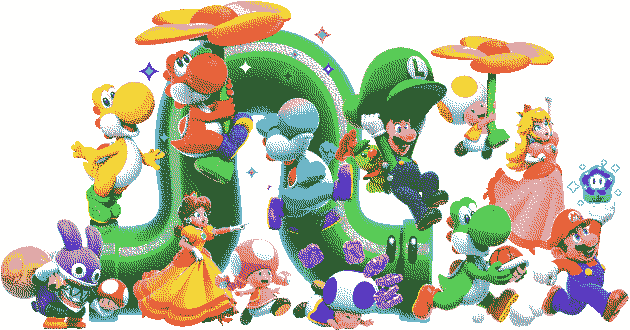
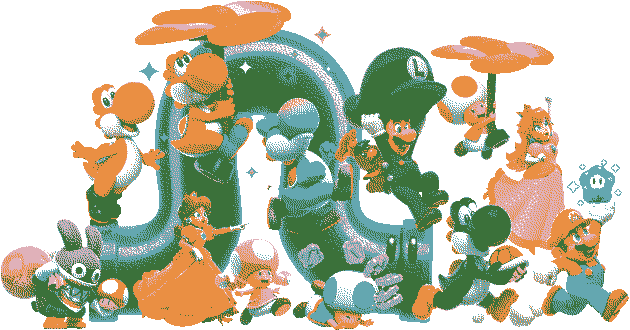
CREATE custom kmeans class  manually implemented

diff --git a/20874_Algorithms_for_Optimization_and_Inference/HW01/problem_1/kmeans.py b/20874_Algorithms_for_Optimization_and_Inference/HW01/problem_1/kmeans.py
@@ -1,0 +1,90 @@
+import numpy as np
+
+class KMeans:
+    def __init__(self, n_clusters=None, init='random', n_init=10, tol = 1e-4):
+
+        if n_clusters is None:
+            raise ValueError('Number of clusters must be specified.')
+        
+        self.n_clusters = n_clusters
+        self.n_init = 1 if init == 'frequency' else n_init
+        self.init = init
+        self.tol = tol
+
+    def fit(self, X, max_iters=300):
+        """
+        Fit the model to the data X.
+        X is an array of shape (n_samples, n_features).
+        Args:
+            X: np.array
+                Data to fit the model on.
+            max_iters: int
+                Maximum number of iterations for one run of Lloyd's algorithm.
+
+        """
+        best_obj = np.inf
+        for _ in range(self.n_init):
+            
+            centroids, new_obj = self.lloyd(X, max_iters=max_iters)
+            print(f'Iteration: {_+1:03} | Objective: {new_obj:,.2f}')
+            if new_obj < best_obj:
+                best_obj = new_obj
+                best_centroids = centroids
+                print('New best objective:', best_obj)
+        
+        self.centroids = best_centroids
+        self.obj = best_obj
+        self.labels = self.predict(X)
+        
+        return f'Fitting done.\nCentroids stored in self.\nObjective value: {self.obj}.'
+            
+    def lloyd(self, X, max_iters):
+
+        """"
+        One complete run of Lloyd's algorithm:
+            1. Init centroids
+            2. Assign each sample to the closest centroid
+            3. Update the centroids 
+        Returns the centroids and the objective value.
+        
+        """
+        if self.init == 'random':
+            centroids = X[np.random.choice(X.shape[0], self.n_clusters, replace=False)]
+        
+        elif self.init == 'frequency':
+            points, counts = np.unique(X, axis=0, return_counts=True)
+            sorted_indices = np.argsort(counts)[::-1]
+            centroids = points[sorted_indices[:self.n_clusters]]
+        
+        elif self.init == 'frequency + noise':
+            points, counts = np.unique(X, axis=0, return_counts=True)
+            sorted_indices = np.argsort(counts)[::-1]
+            centroids = points[sorted_indices[:self.n_clusters]]
+            centroids += np.random.normal(0, 1, centroids.shape).astype(np.uint8)
+        
+        iter = 0
+        while iter < max_iters:
+
+            labels = np.argmin(np.linalg.norm(X[:, None] - centroids, axis=2), axis=1)
+            
+            new_centroids = np.array([X[labels == i].mean(axis=0) if np.any(labels == i) else centroids[i] for i in range(self.n_clusters)])
+            
+            if np.linalg.norm(new_centroids - centroids) < self.tol:
+                centroids = new_centroids
+                print(f'Converged in {iter} iterations.')
+                break
+            centroids = new_centroids
+            iter += 1
+
+        return centroids, np.min(np.linalg.norm(X[:, None] - centroids, axis=2), axis=1).sum()
+        
+    
+    def predict(self, X):
+        """
+        Return the closest centroid for each sample in X.
+        X is an array of shape (n_samples, n_features).
+
+        """
+        if getattr(self, 'centroids', None) is None:
+            raise ValueError('Model not fitted.')
+        return np.argmin(np.linalg.norm(X[:, None] - self.centroids, axis=2), axis=1)

diff --git a/20874_Algorithms_for_Optimization_and_Inference/HW01/problem_1/recolor.py b/20874_Algorithms_for_Optimization_and_Inference/HW01/problem_1/recolor.py
@@ -2,18 +2,23 @@ import sys
 import numpy as np
 from PIL import Image
 
-from sklearn.cluster import KMeans
-from sklearn.preprocessing import StandardScaler
+from kmeans import KMeans
+# from sklearn.preprocessing import StandardScaler
+
+
 
 # -------------------------------------- #
 # ----- Get params from cmd ------------ #
 # -------------------------------------- #
+
 if len(sys.argv) != 4:
     print('Provide required arguments:\n\tpython recolor.py <input_img> <output_img> <k>')
     sys.exit(1)
+
 input_img = sys.argv[1]     # path to input file
 output_img = sys.argv[2]    # path to output file
 k = int(sys.argv[3])        # number of colors
+
 
 # -------------------------------------- #
 # ----- Load and prepare image --------- #
@@ -23,10 +28,8 @@ img = Image.open(input_img)
 img = np.array(img)
 h, w, c = img.shape
 
-# Flatten
 X = img.reshape(h*w, c)
 
-# Get unique colors to upper bound k
 n_colors = np.unique(X, axis=0).shape[0]
 
 print(f'Unique colors found in img: {n_colors}')
@@ -35,30 +38,29 @@ if k > n_colors:
     k = n_colors
 
 # Center and scale the data
-print(f'Standardizing data...')
-scaler = StandardScaler()
-#X_scaled = scaler.fit_transform(X)
-X_scaled = X
+# print(f'Standardizing data...')
+# scaler = StandardScaler()
+# X_scaled = scaler.fit_transform(X)
+# X_scaled = X
 
 # -------------------------------------- #
 # ----- Apply K-Means clustering ------- #
 # -------------------------------------- #
 
 print(f'Clustering data...')
-kmeans = KMeans(n_clusters=k, init='random', n_init=100)   # Adjust 'n_clusters' as needed
-kmeans.fit(X_scaled)
+kmeans = KMeans(n_clusters=k, init='random', n_init=10)   # Adjust 'n_clusters' as needed
+kmeans.fit(X)
 
 # -------------------------------------- #
 # ----- Convert back to RGB and save --- #
 # -------------------------------------- #
 
-# Replace each pixel by its centroid
-X_compressed = kmeans.cluster_centers_[kmeans.labels_]
-obj = np.sum(np.sum((X_scaled.reshape(-1, 3) - X_compressed.reshape(-1, 3))**2, axis=1)**0.5)
-print(f'Objective value: {obj:,.2f}')
+X_compressed = kmeans.centroids[kmeans.labels]
+print(f'Objective value: {kmeans.obj:,.2f}')
 
 # Convert back to RGB
 #img_compressed = scaler.inverse_transform(X_compressed).reshape(h, w, c).astype(np.uint8)
+# X_compressed = scaler.inverse_transform(X_compressed)
 img_compressed = X_compressed.reshape(h, w, c).astype(np.uint8)
 
 print(f'Saving compressed image to {output_img}')
